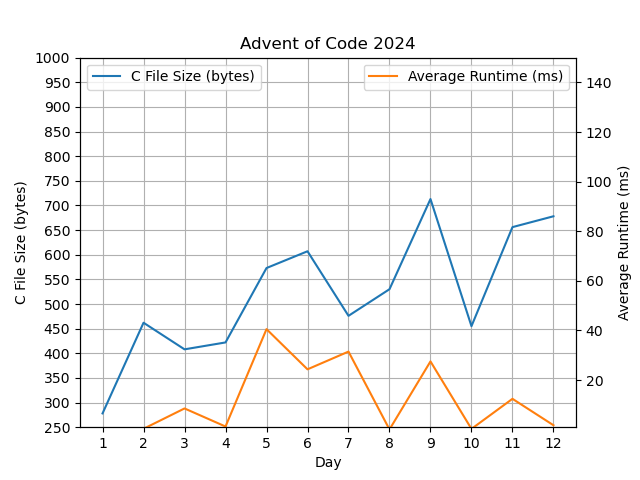
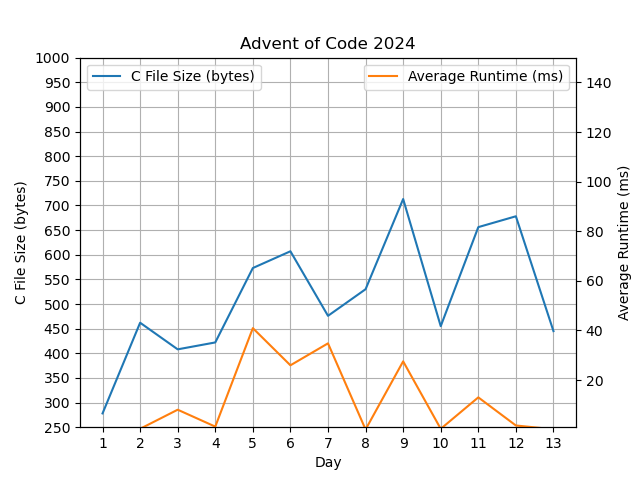
d13

diff --git a/d13.c b/d13.c
@@ -1,0 +1,9 @@
+#include "a.h"
+#define P 320
+#define D(i,j,k,l) a[i] * a[j] - a[k] * a[l]
+L f(L a[6], I p)_(I(p, a[4] += 1e13; a[5] += 1e13)
+  L m = D(0,3,1,2), c = D(4,3,5,2), d = D(5,0,4,1);
+  I(c % m || d % m || c / m < 0 || d / m < 0, R 0); (3 * c + d) / m)
+L s[2], i, j, a[P][6]; M(Fp fp = fget("d13.txt"); LINESF(99, fp, W(*p,
+  I(isdigit(*p++), a[i][j++] = strtol(p-1, &p, 10))) I(j == 6, i++, j = 0))
+  Fi(P, Fx(2, s[x] += f(a[i], x))) resl(s[0], s[1]))
